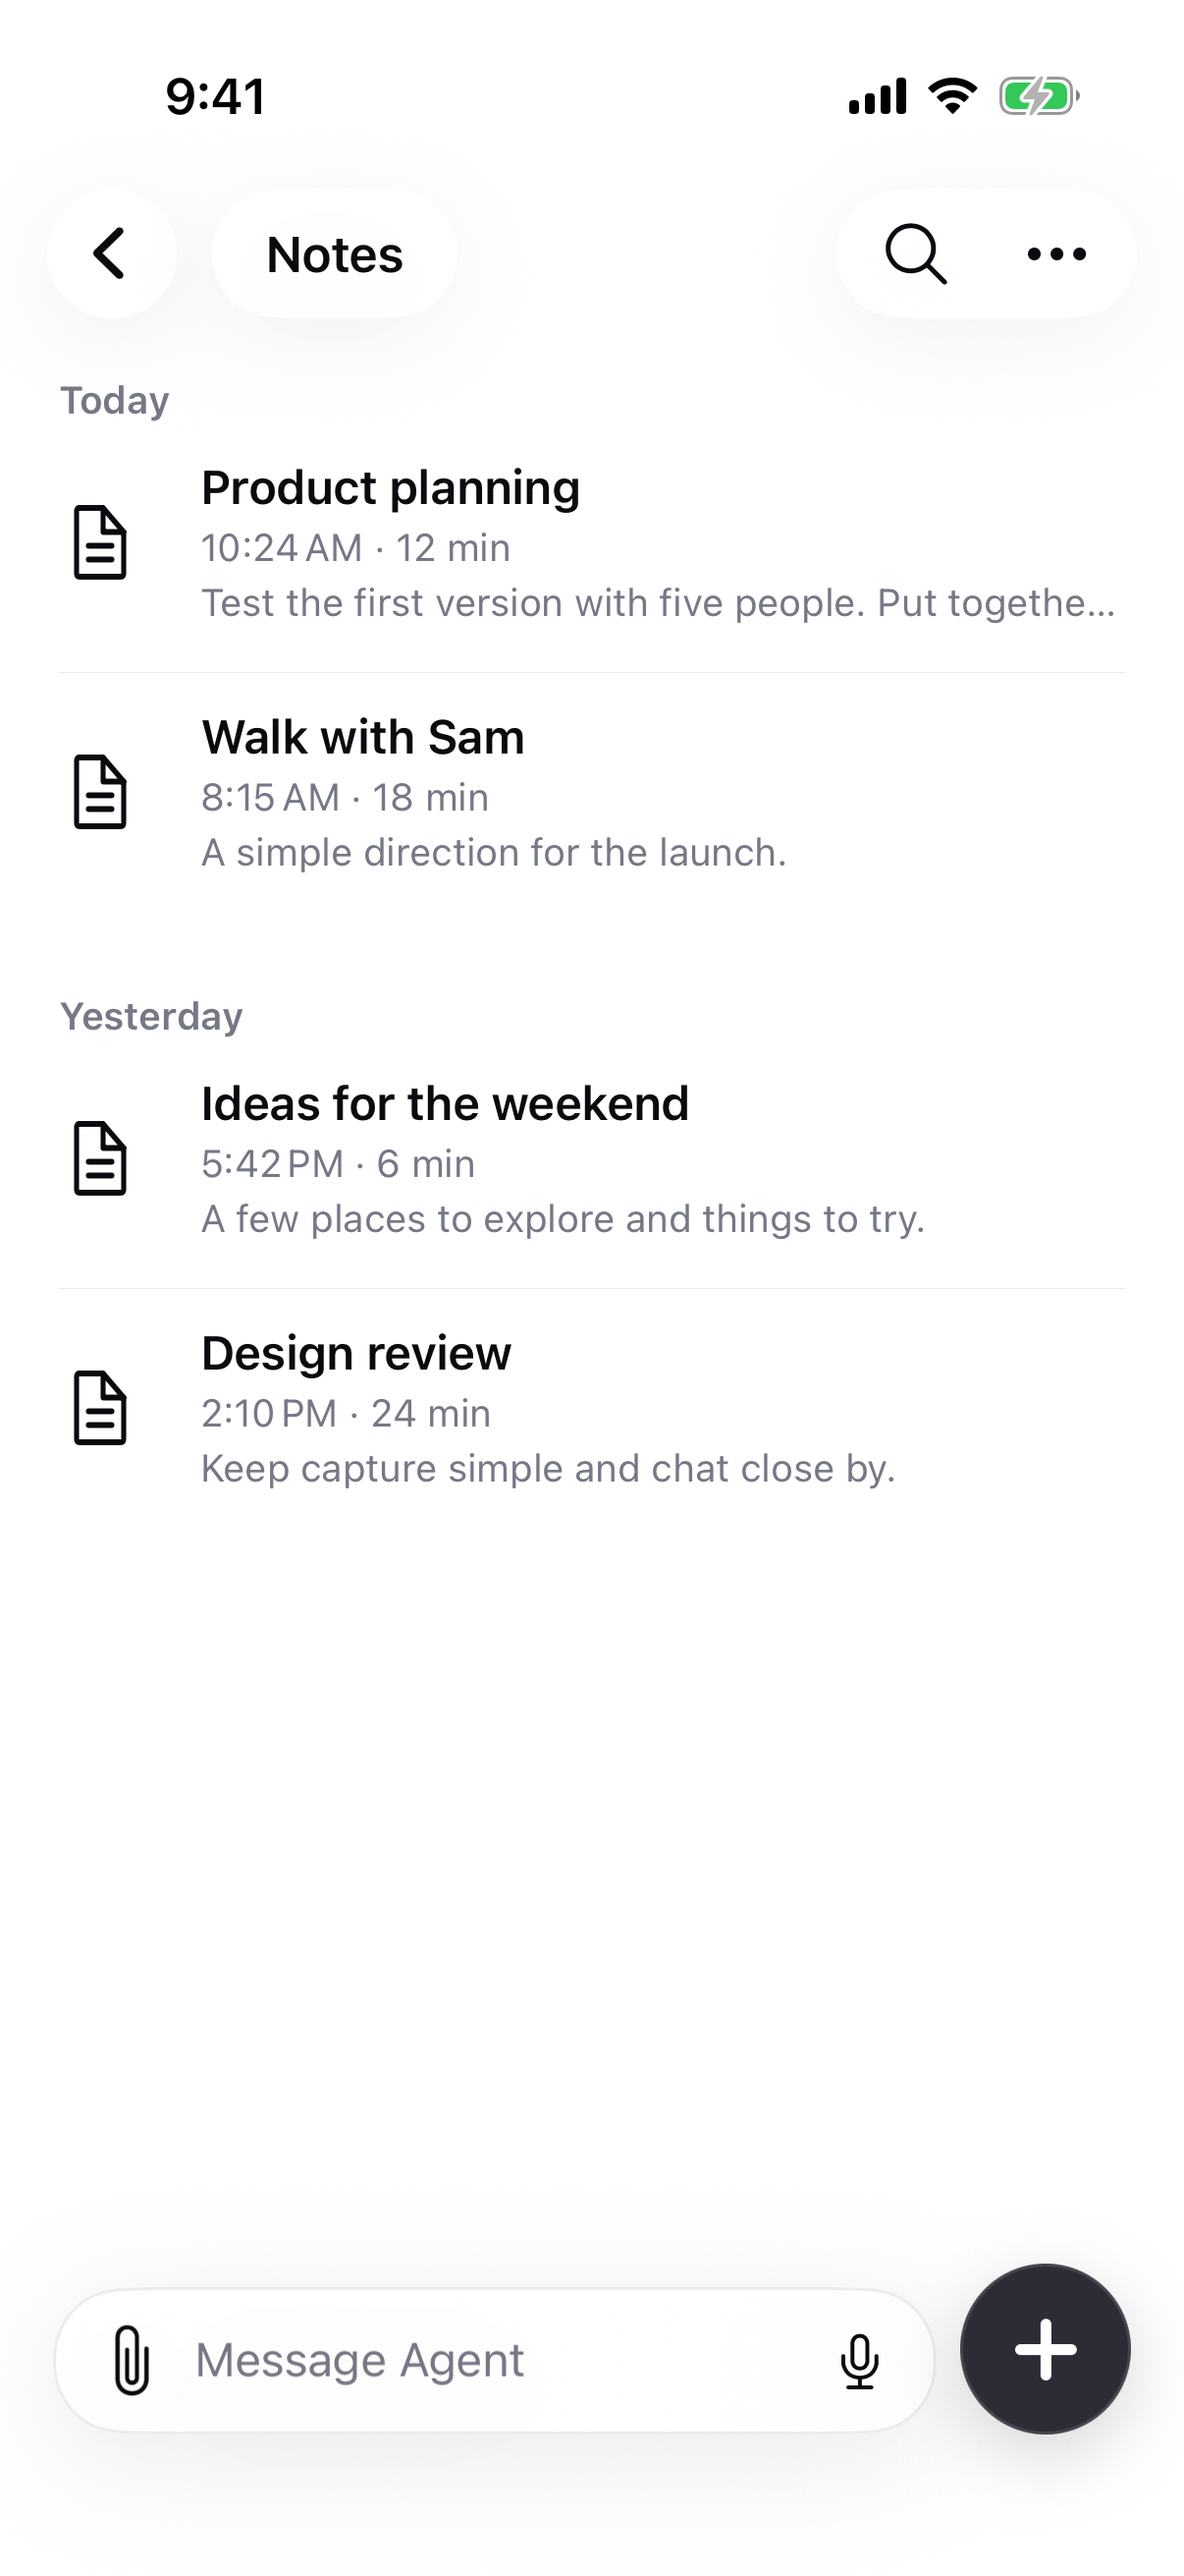
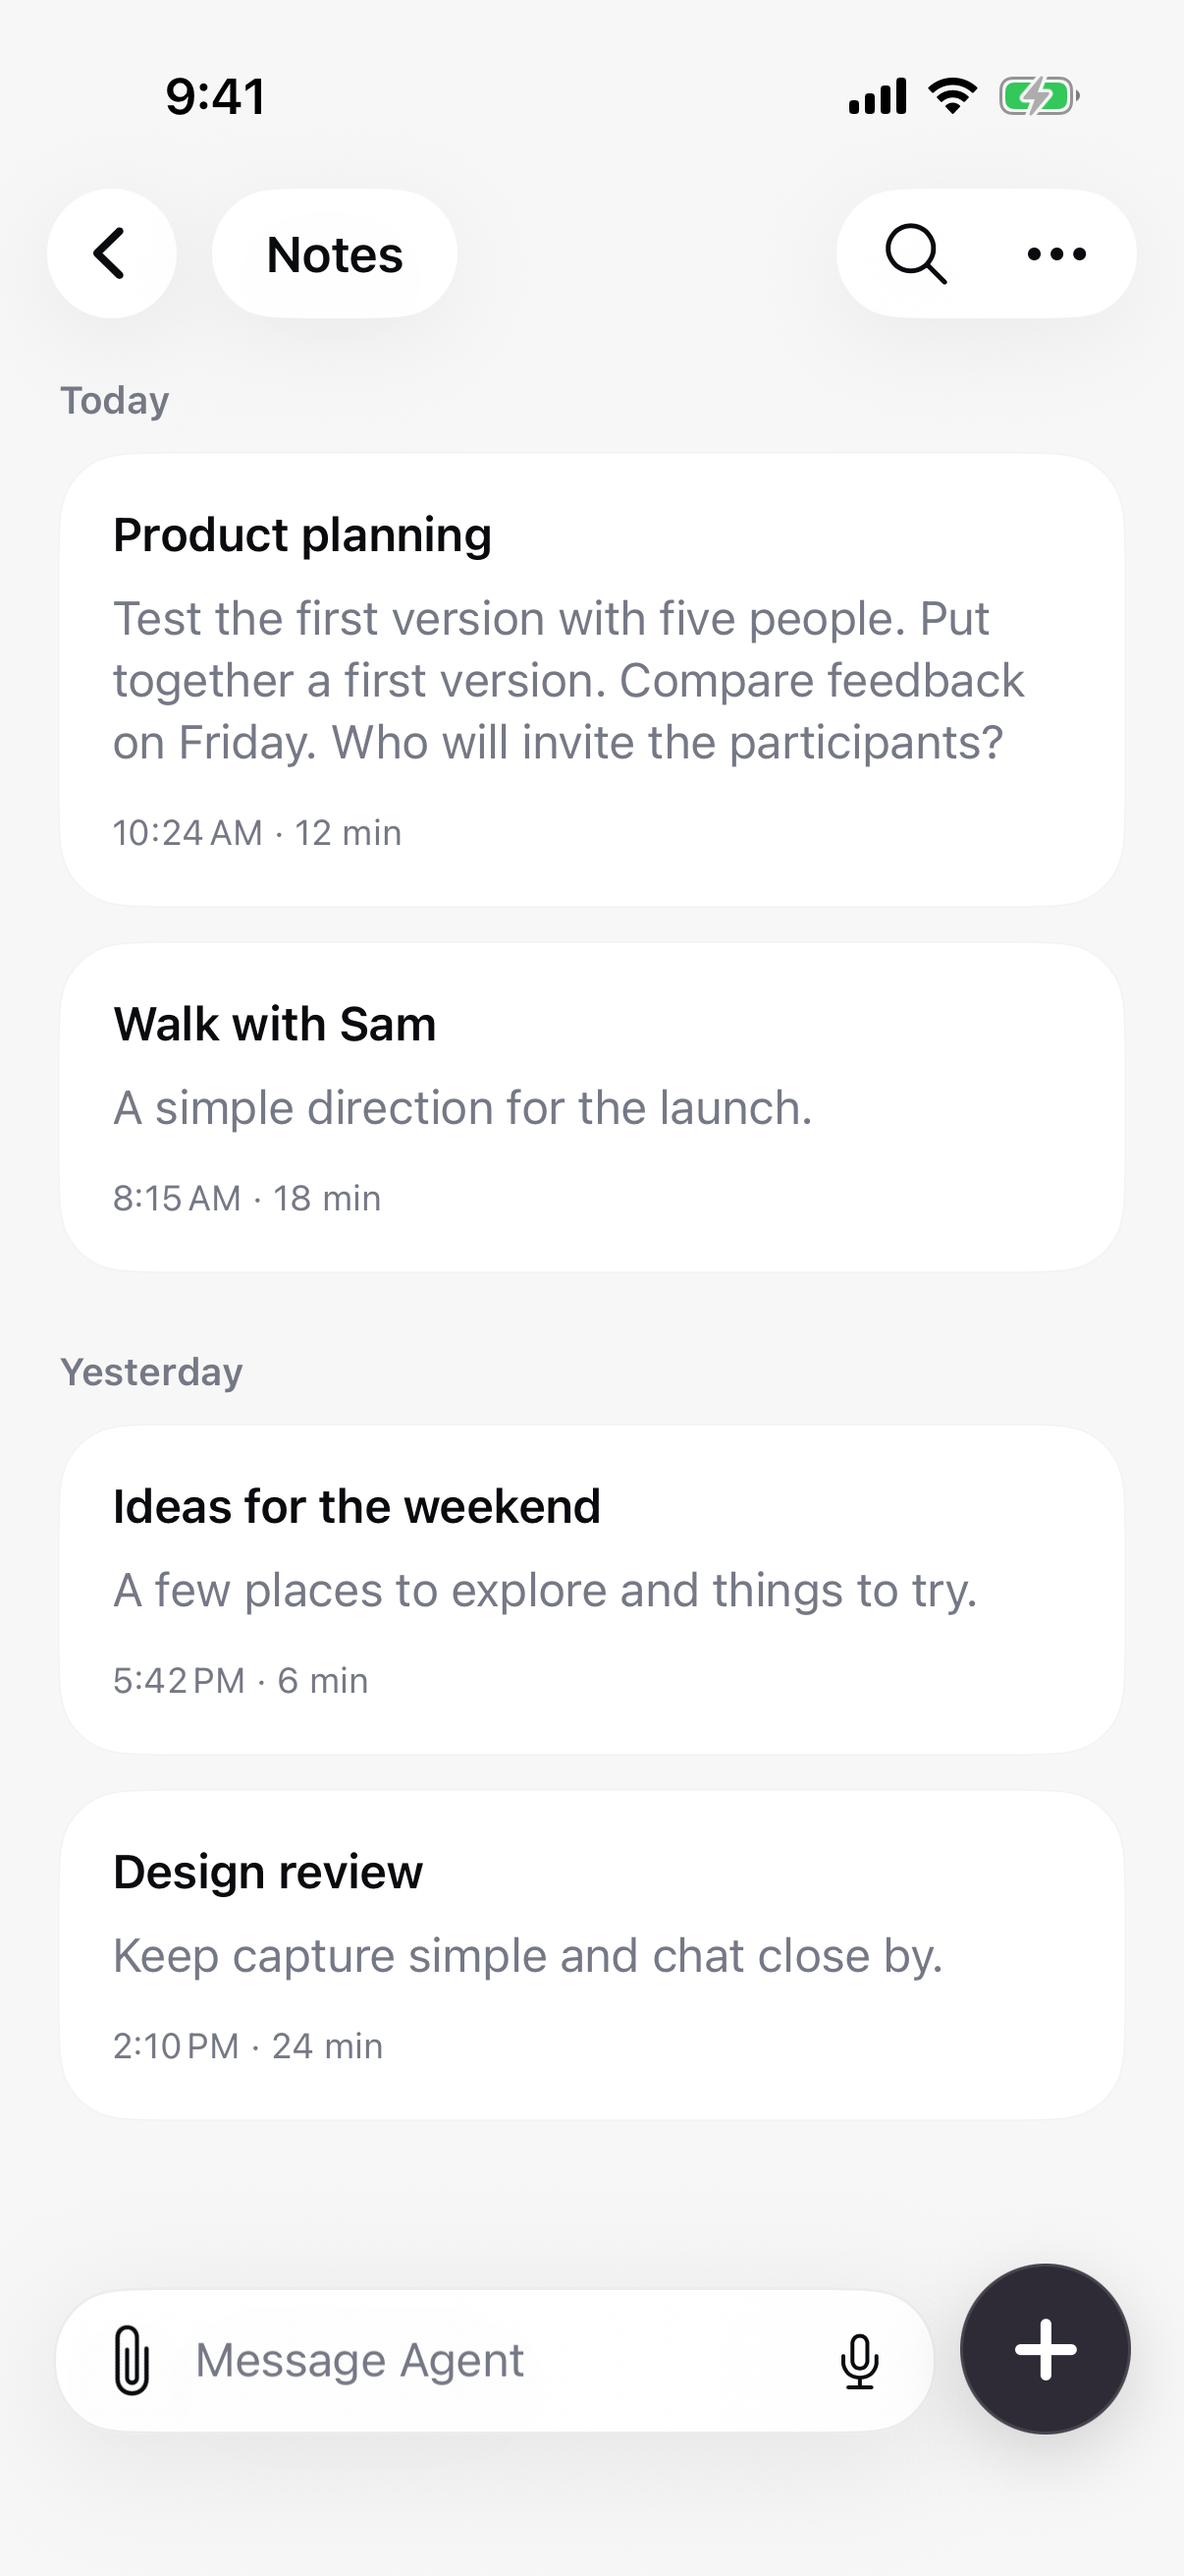
Present notes as stacked cards with matching swipe actions

diff --git a/App/CompanionRootView.swift b/App/CompanionRootView.swift
@@ -55,6 +55,8 @@ struct CompanionRootView: View {
         }
         return sessions
     }
+    private var pageBackground: Color { surface == "Recordings" ? Color(white: 0.97) : ExperienceStyle.canvas }
+
     var body: some View {
         VStack(spacing: 0) {
             navigation.padding(.horizontal, 16).padding(.vertical, 2)
@@ -79,9 +81,9 @@ struct CompanionRootView: View {
                 if recording.liveStatus != nil, selectedID == nil { captureBar }
                 if !searching { composer }
             }.padding(.horizontal, 18).padding(.top, 14).padding(.bottom, 14)
-                .background(ExperienceStyle.canvas)
+                .background(pageBackground)
         }
-        .background(ExperienceStyle.canvas)
+        .background(pageBackground)
         .preferredColorScheme(.light)
         .foregroundStyle(ExperienceStyle.ink)
         .tint(ExperienceStyle.ink)
@@ -529,35 +531,37 @@ struct CompanionRootView: View {
                     if !searching && (index == 0 || dayTitle(session.createdAt) != dayTitle(matches[index - 1].createdAt)) {
                         Text(dayTitle(session.createdAt)).font(.footnote.weight(.semibold)).foregroundStyle(ExperienceStyle.secondary).padding(.top, index == 0 ? 8 : 14).padding(.bottom, 10)
                     }
-                    Button { composing = false; recordingDetent = .large; selectedID = session.id; citedSource = nil } label: {
-                        HStack(alignment: .center, spacing: 20) {
-                            ExperienceSymbol(name: "doc.text").frame(width: 24, height: 28).padding(.horizontal, 2)
-                            VStack(alignment: .leading, spacing: 3) {
-                                RecordingLibraryTitle(attachment: recording.companionAttachment(for: session), personal: session.source == "personal_text", refreshKey: "\(surface):\(selectedID?.uuidString ?? "")", configuration: { try Self.config() })
-                                    .font(.callout.weight(.semibold))
-                                Text(recordingMetadata(session)).font(.footnote).foregroundStyle(ExperienceStyle.secondary)
-                                Text(searchPreview(session))
-                                    .font(.footnote).foregroundStyle(ExperienceStyle.secondary).lineLimit(1)
-                            }.frame(maxWidth: .infinity, alignment: .leading)
-                        }.contentShape(Rectangle()).padding(.top, 2).padding(.bottom, 16)
-                            .overlay(alignment: .bottom) {
-                                if index + 1 < matches.count, searching || dayTitle(matches[index + 1].createdAt) == dayTitle(session.createdAt) {
-                                    Rectangle().fill(ExperienceStyle.line).frame(height: 0.5)
-                                }
-                            }.padding(.bottom, 10)
-                    }.accessibilityIdentifier("savedSession")
+                    Button { ExperienceHaptics.tap(); composing = false; recordingDetent = .large; selectedID = session.id; citedSource = nil } label: {
+                        VStack(alignment: .leading, spacing: 9) {
+                            RecordingLibraryTitle(attachment: recording.companionAttachment(for: session), personal: session.source == "personal_text", refreshKey: "\(surface):\(selectedID?.uuidString ?? "")", configuration: { try Self.config() })
+                                .font(.callout.weight(.semibold)).foregroundStyle(ExperienceStyle.ink)
+                            Text(searchPreview(session))
+                                .font(.callout).foregroundStyle(ExperienceStyle.secondary).lineLimit(3)
+                                .frame(maxWidth: .infinity, alignment: .leading)
+                            Text(recordingMetadata(session)).font(.caption).foregroundStyle(ExperienceStyle.secondary)
+                                .padding(.top, 5)
+                        }.padding(18).frame(maxWidth: .infinity, alignment: .leading)
+                            .background(.white, in: RoundedRectangle(cornerRadius: 24))
+                            .overlay { RoundedRectangle(cornerRadius: 24).stroke(ExperienceStyle.line.opacity(0.55), lineWidth: 0.5) }
+                            .contentShape(RoundedRectangle(cornerRadius: 24))
+                    }.buttonStyle(.plain).accessibilityIdentifier("savedSession")
+                    .padding(.bottom, 12)
                     .swipeActions(edge: .trailing, allowsFullSwipe: false) {
+                        Button("Copy", systemImage: "doc.on.doc") { ExperienceClipboard.copy(noteExport(session)) }
+                            .buttonStyle(.automatic).tint(ExperienceStyle.ink)
+                        ShareLink(item: noteExport(session)) { Label("Share", systemImage: "square.and.arrow.up") }
+                            .buttonStyle(.automatic).tint(ExperienceStyle.secondary)
                         if !(recording.isActive && recording.current?.id == session.id) {
-                            Button("Delete", systemImage: "trash", role: .destructive) { libraryDeletion = session }.buttonStyle(.automatic).tint(.red)
+                            Button("Delete", systemImage: "trash") { libraryDeletion = session }
+                                .buttonStyle(.automatic).tint(ExperienceStyle.ink)
                         }
                     }
                     .contextMenu {
-                        ShareLink(item: session.transcript.segments.map(\.text).joined(separator: "\n")) {
-                            Label("Share", systemImage: "square.and.arrow.up")
-                        }
                         if !(recording.isActive && recording.current?.id == session.id) {
-                            Button("Delete", systemImage: "trash", role: .destructive) { libraryDeletion = session }.buttonStyle(.automatic).tint(.red)
+                            Button("Delete", systemImage: "trash", role: .destructive) { libraryDeletion = session }
                         }
+                        ShareLink(item: noteExport(session)) { Label("Share", systemImage: "square.and.arrow.up") }
+                        Button("Copy", systemImage: "doc.on.doc") { ExperienceClipboard.copy(noteExport(session)) }
                     }
                 }
             }
@@ -574,6 +578,10 @@ struct CompanionRootView: View {
             } message: { _ in
                 Text("The note and transcript will be removed. Your conversation and learned memories will stay.")
             }
+    }
+
+    private func noteExport(_ session: CaptureSession) -> String {
+        session.transcript.segments.map(\.text).joined(separator: "\n")
     }
 
     private func deleteNote(_ note: CaptureSession) {

diff --git a/UITests/CompanionPhoneUITests.swift b/UITests/CompanionPhoneUITests.swift
@@ -38,6 +38,7 @@ final class CompanionPhoneUITests: XCTestCase {
         firstNote.press(forDuration: 0.8)
         XCTAssertTrue(app.buttons["Share"].waitForExistence(timeout: 3))
         XCTAssertTrue(app.buttons["Delete"].exists)
+        XCTAssertTrue(app.buttons["Copy"].exists)
         snapshot(app, "Note context actions")
         app.buttons["Delete"].tap()
         XCTAssertTrue(app.alerts["Delete this note?"].waitForExistence(timeout: 3))
@@ -45,7 +46,14 @@ final class CompanionPhoneUITests: XCTestCase {
         XCTAssertEqual(app.buttons.matching(identifier: "savedSession").count, 4)
         firstNote.swipeLeft()
         XCTAssertTrue(app.buttons["Delete"].waitForExistence(timeout: 3))
+        XCTAssertTrue(app.buttons["Share"].exists)
+        XCTAssertTrue(app.buttons["Copy"].exists)
+        XCTAssertFalse(app.buttons["Close recording"].exists, "Swiping must not open the note")
         snapshot(app, "Swipe to delete note")
+        app.buttons["Copy"].tap()
+        XCTAssertFalse(app.buttons["Close recording"].exists)
+        firstNote.swipeLeft()
+        XCTAssertTrue(app.buttons["Delete"].waitForExistence(timeout: 3))
         app.buttons["Delete"].tap()
         app.buttons["confirmDeleteLibraryNote"].firstMatch.tap()
         XCTAssertEqual(app.buttons.matching(identifier: "savedSession").count, 3)

diff --git a/docs/native-experience-ui.md b/docs/native-experience-ui.md
@@ -146,3 +146,10 @@ Native Notes now uses a plain List with the existing row artwork, native swipe D
 Simulator gallery/attachment flow passed at `/tmp/VoiceCompanion-ExperienceResults/20260928-011307/`: long-press menu, cancel preserves four notes, swipe/confirm removes the intended note, surviving attachment and navigation remain functional. Actual context menu and swipe screenshots inspected and saved. Initial run exposed inherited custom button style hiding native swipe action; `.automatic` resolves it. Second run exposed duplicate UIKit accessibility matches for the confirmation; `.firstMatch` resolves the test selection.
 
 32 companion backend tests pass, including websocket history, deletion/reopen preservation and unavailable source rejection. Eleven retained-memory tests pass; the older exact-provider replay fails with `answer_unavailable` identically on unchanged HEAD and this branch (`/tmp/retention-baseline.log`), so is not claimed as passing. Signed Phone build passes (`/tmp/note-actions-device-final.log`); diff check passes. No paid calls. This combined client/backend revision is not deployed yet; the hosted service must receive the preservation change before the client deletion copy is shipped. Copy-preview source867bc17 was installed earlier, without a subsequent launch receipt.
+
+
+### Stacked note cards — September 28
+
+Founder refinement: replace the icon-led library rows with stacked rounded cards containing title, up to three preview lines, and timestamp/duration. A subtle neutral background separates cards. A tap opens the note; native swipe reveals Delete, Share and Copy (neutral circles, full-swipe disabled). Long-press provides the same actions. Copy/Share export the saved transcript; Delete remains confirmed and unavailable during active capture. Plain row button handling keeps swipe recognition under native List control; explicit tap haptic remains.
+
+Simulator gallery flow passed at `/tmp/VoiceCompanion-ExperienceResults/20260928-012257/`: tap opens detail, long-press exposes all actions, cancel preserves notes, swipe exposes all three without opening detail, Copy returns to library, another swipe/confirm deletes, and attachment/search/account flows work. Actual card/swipe screenshots inspected and refreshed. Signed Phone build passed (`/tmp/note-cards-device.log`), diff check passed. No provider calls. Rollout still pending the earlier coordinated backend preservation change.

diff --git a/docs/engineering-principles.md b/docs/engineering-principles.md
@@ -270,3 +270,5 @@ Founder Agent-bubble correction: use regular body text, remove the persistent co
 ## Note deletion preserves conversation — September 28, 2026
 
 Founder revision: deleting a note removes its recording/transcript but preserves already sent companion answers and follow-ups. Do not replace them with source-deleted notices. Remove unavailable source links and exclude unsupported historical answers from evidence context; learned-memory retention remains unchanged. Notes offer swipe Delete and long-press Share/Delete with confirmation. This supersedes answer-scrubbing behavior for ordinary note deletion; source corrections retain their existing validation rules.
+
+Founder UI refinement, September 28: Notes uses stacked title/preview/time cards without leading document icons. Taps open details; swipes reveal neutral Delete/Share/Copy actions; long-press exposes those same actions. Prefer native gesture arbitration so dragging never triggers navigation.
